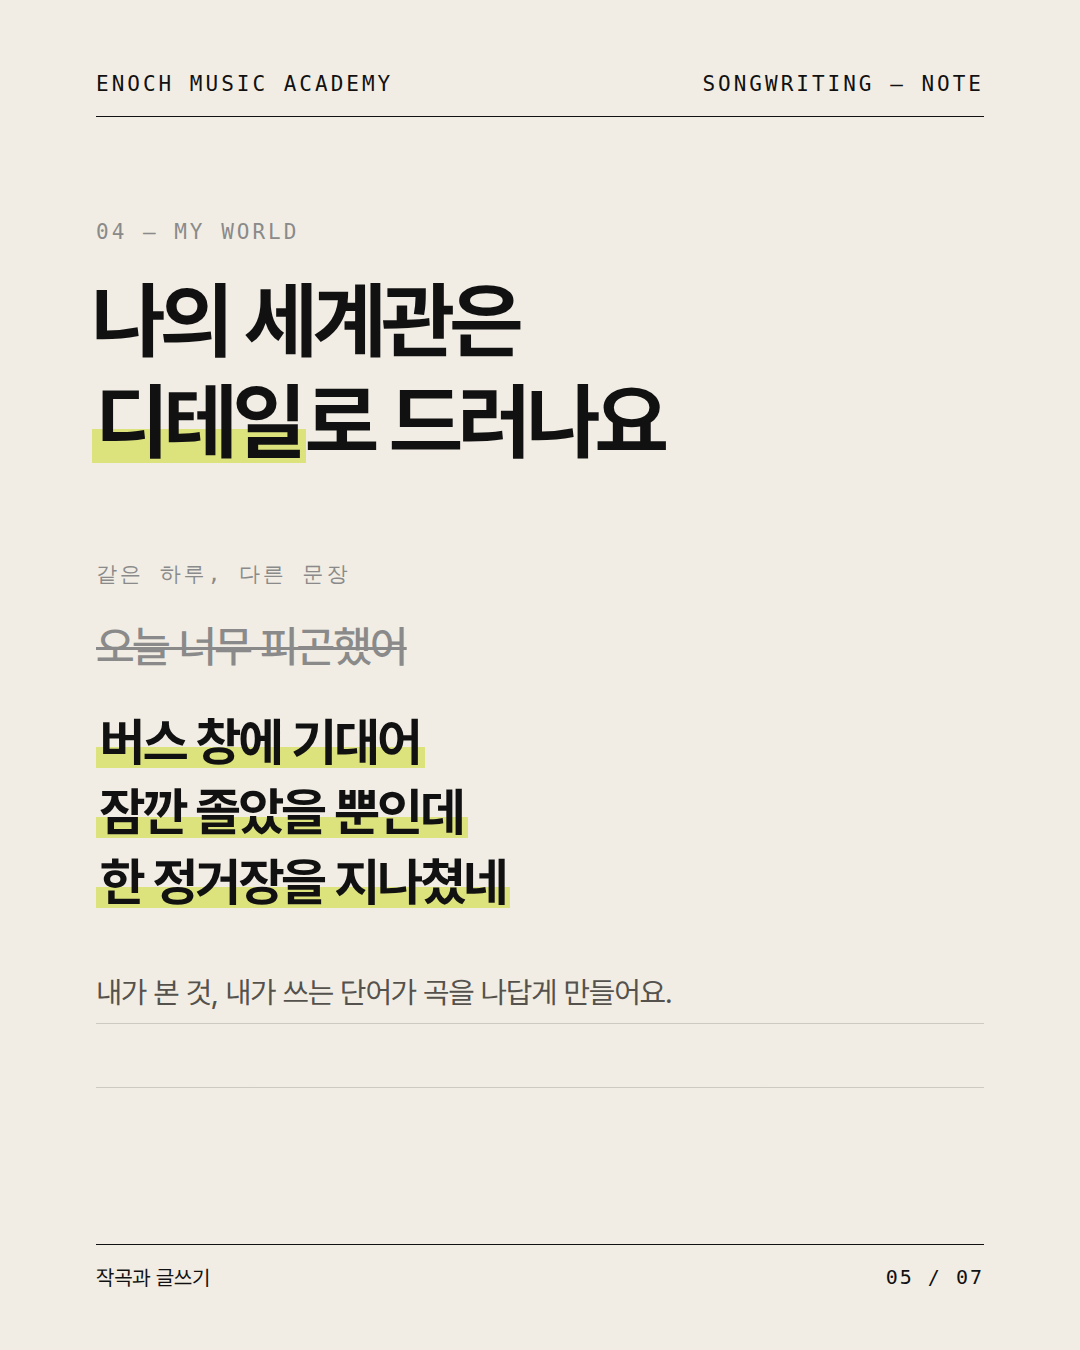
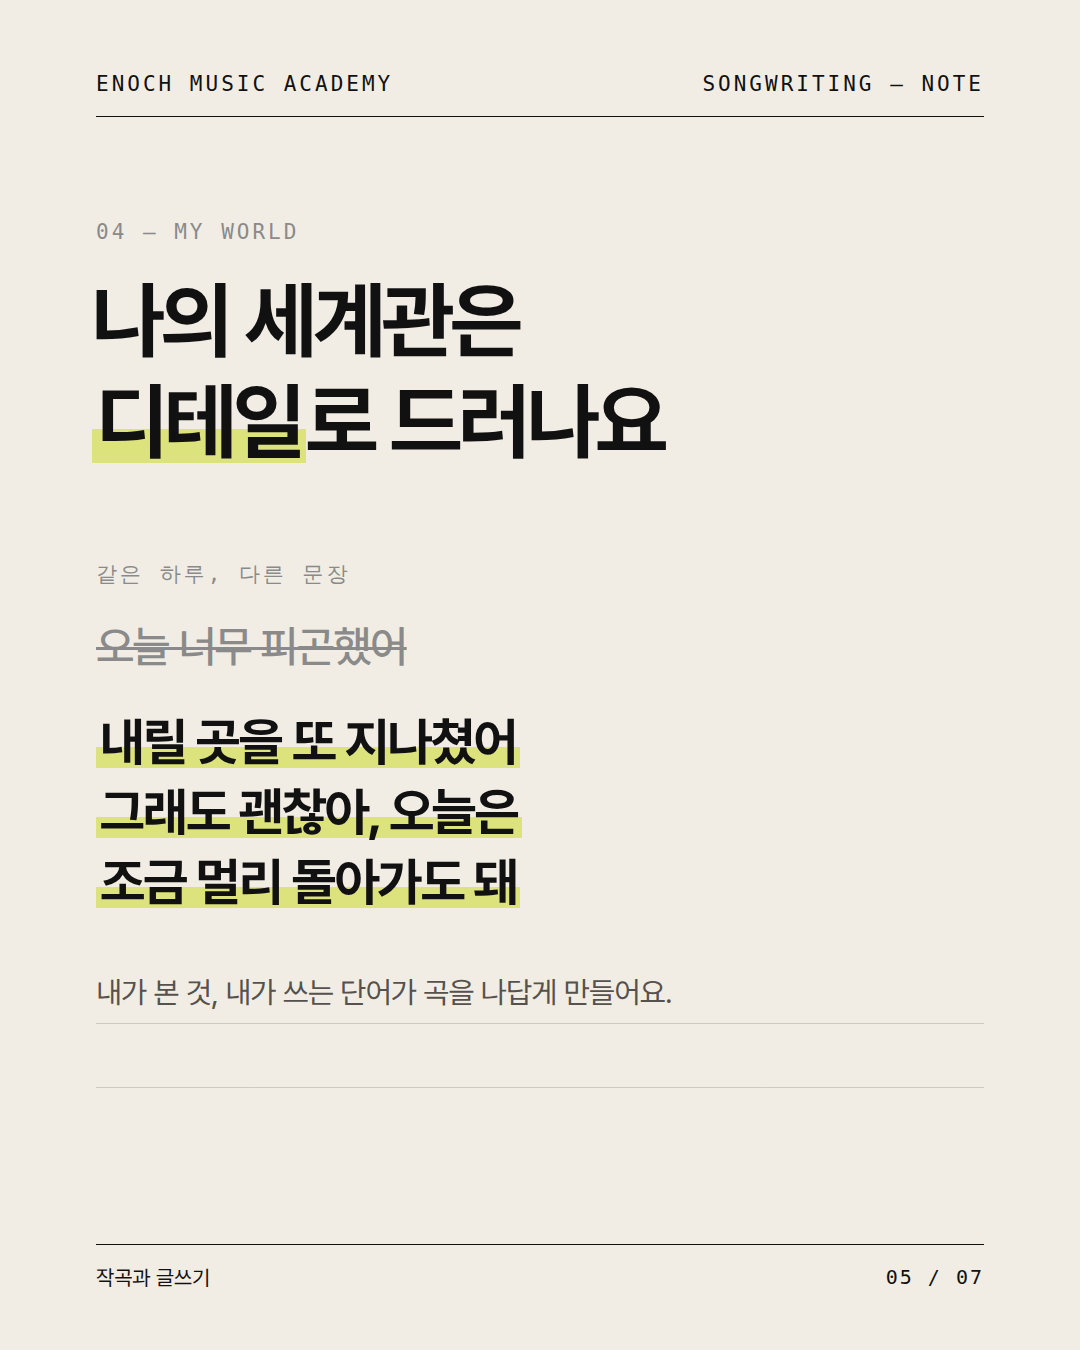
작곡과 글쓰기: 5장 가사를 청춘 인디 결(위로하는 혼잣말)로
Claude-Session: https://claude.ai/code/session_01HGbZvgMeYrbU7mY8bwfjyb

Changed region(s): [[0.0917, 0.5289, 0.4889, 0.6844]]

diff --git a/output/작곡_글쓰기의힘/deck_note.html b/output/작곡_글쓰기의힘/deck_note.html
@@ -72,7 +72,7 @@ mark{background:linear-gradient(transparent 58%,var(--lime) 58%,var(--lime) 92%,
   <div class="k" style="position:absolute;left:96px;top:560px">같은 하루, 다른 문장</div>
   <div style="position:absolute;left:96px;right:96px;top:620px">
     <div class="del" style="font-size:44px;font-weight:500;letter-spacing:-1.5px">오늘 너무 피곤했어</div>
-    <div style="margin-top:34px;font-size:52px;font-weight:700;letter-spacing:-2px;line-height:1.35"><mark>버스 창에 기대어</mark><br><mark>잠깐 졸았을 뿐인데</mark><br><mark>한 정거장을 지나쳤네</mark></div>
+    <div style="margin-top:34px;font-size:52px;font-weight:700;letter-spacing:-2px;line-height:1.35"><mark>내릴 곳을 또 지나쳤어</mark><br><mark>그래도 괜찮아, 오늘은</mark><br><mark>조금 멀리 돌아가도 돼</mark></div>
   </div>
   <div class="note" style="top:960px;height:128px"><p>내가 본 것, 내가 쓰는 단어가 곡을 나답게 만들어요.</p></div>
   <div class="ft"><span>작곡과 글쓰기</span><span>05 / 07</span></div>

diff --git a/output/작곡_글쓰기의힘/deck.html b/output/작곡_글쓰기의힘/deck.html
@@ -111,7 +111,7 @@
     <div class="ct">같은 하루, 다른 문장</div>
     <div class="cmp">
       <div class="q q1"><small>누구나 쓰는 문장</small>오늘 너무 피곤했어</div>
-      <div class="q q2"><small>나만 쓸 수 있는 문장</small>버스 창에 기대어<br>잠깐 졸았을 뿐인데<br>한 정거장을 지나쳤네</div>
+      <div class="q q2"><small>나만 쓸 수 있는 문장</small>내릴 곳을 또 지나쳤어<br>그래도 괜찮아, 오늘은<br>조금 멀리 돌아가도 돼</div>
     </div>
     <div class="body" style="margin-top:22px;font-size:28px;color:var(--g)">내가 본 것, 내가 쓰는 단어가 곡을 나답게 만들어요.</div>
   </div>

diff --git a/output/작곡_글쓰기의힘/deck_editorial.html b/output/작곡_글쓰기의힘/deck_editorial.html
@@ -138,7 +138,7 @@
     <div class="ct">같은 하루, 다른 문장</div>
     <div class="cmp">
       <div class="q q1"><small>누구나 쓰는 문장</small>오늘 너무 피곤했어</div>
-      <div class="q q2"><small>나만 쓸 수 있는 문장</small>버스 창에 기대어<br>잠깐 졸았을 뿐인데<br>한 정거장을 지나쳤네</div>
+      <div class="q q2"><small>나만 쓸 수 있는 문장</small>내릴 곳을 또 지나쳤어<br>그래도 괜찮아, 오늘은<br>조금 멀리 돌아가도 돼</div>
     </div>
     <div class="body" style="margin-top:22px;font-size:28px;color:var(--g)">내가 본 것, 내가 쓰는 단어가 곡을 나답게 만들어요.</div>
   </div>

diff --git a/output/작곡_글쓰기의힘/caption.md b/output/작곡_글쓰기의힘/caption.md
@@ -5,7 +5,7 @@
 
 같은 코드 진행으로도 수많은 곡이 만들어지지만, 곡을 다르게 만드는 건 그 안에 담긴 이야기예요. ENOCH 작곡 수업은 모든 과정이 1:1이라, 한 사람의 이야기에 맞춰 수업해요.
 
-매일 읽으면 같은 감정을 다르게 말하는 방법이 늘어나고, 매일 쓰면 내 말투가 생겨요. "오늘 너무 피곤했어" 대신 "버스 창에 기대어 / 잠깐 졸았을 뿐인데 / 한 정거장을 지나쳤네"처럼, 내가 본 것과 내가 쓰는 단어가 곡을 나답게 만들어요.
+매일 읽으면 같은 감정을 다르게 말하는 방법이 늘어나고, 매일 쓰면 내 말투가 생겨요. "오늘 너무 피곤했어" 대신 "내릴 곳을 또 지나쳤어 / 그래도 괜찮아, 오늘은 / 조금 멀리 돌아가도 돼"처럼, 내가 본 것과 내가 쓰는 단어가 곡을 나답게 만들어요.
 
 이번 주에는 노트 한 권을 정해 보세요. 마음에 남은 한 줄을 옮겨 적고, 내 말로 바꿔 쓰고, 소리 내어 읽어 보세요.
 
